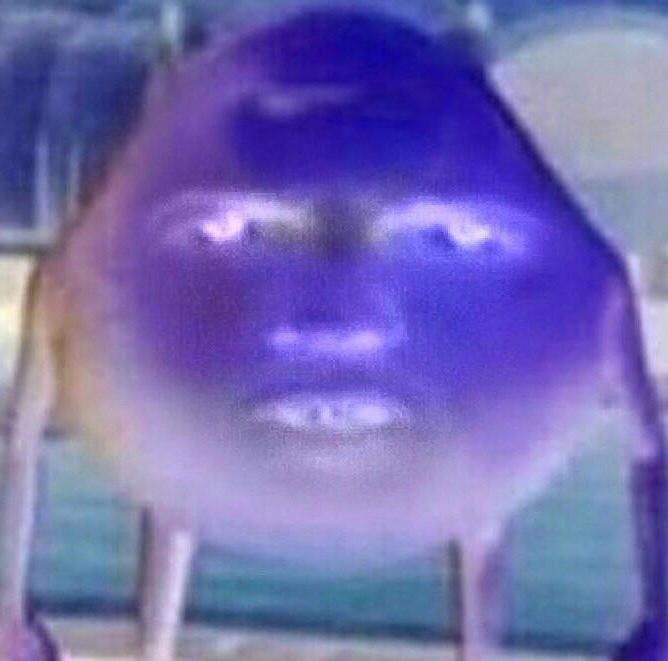
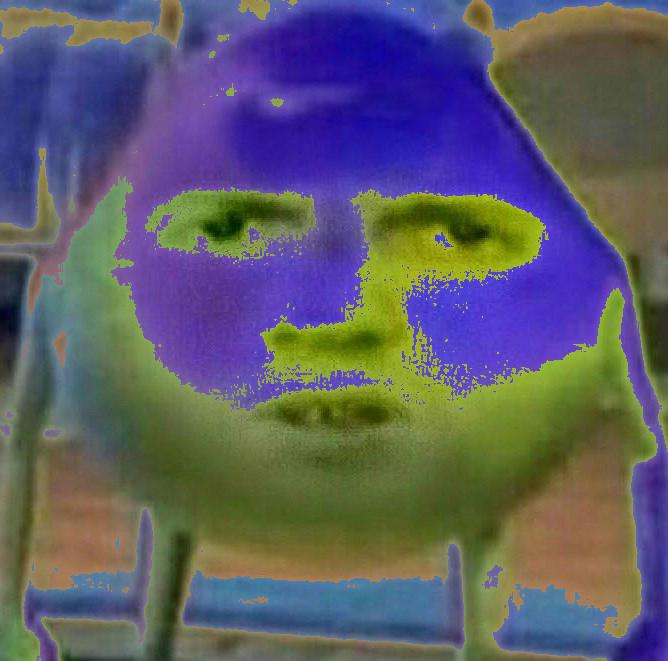
com #2. 1. main (описание библиотек) 2. добавлен файл NegativeWithThreshold.java негатив с порогами

diff --git a/src/NegativeImage.java b/src/NegativeImage.java
@@ -14,6 +14,9 @@ public class NegativeImage {
         int width = image.getWidth();
         int height = image.getHeight();
 
+        // Создание объектов для двух новых изображений
+        BufferedImage negativeImage = new BufferedImage(width, height, BufferedImage.TYPE_INT_RGB);
+
         // Проход по каждому пикселю изображения
         for(int y = 0; y < height; y++){
             for(int x = 0; x < width; x++){
@@ -31,33 +34,12 @@ public class NegativeImage {
                 int invertedPixel = (alpha << 24) | ((255 - red) << 16) | ((255 - green) << 8) | (255 - blue);
 
                 // Запись инвертированного значения пикселя в изображение для негатива
-                image.setRGB(x, y, invertedPixel);
-
-
-                // Пороговое значение
-                int threshold = 128;
-
-                // Вычисление инвертированного значения пикселя для негатива с порогом
-                int invertedPixelThreshold;
-                if ((red + green + blue) / 3 > threshold) {
-                    invertedPixelThreshold = invertedPixel;
-                } else {
-                    int invertedRed = 255 - red;
-                    int invertedGreen = 255 - green;
-                    int invertedBlue = 255 - blue;
-                    invertedPixelThreshold = (alpha << 24) | (invertedRed << 16) | (invertedGreen << 8) | invertedBlue;
-                }
-
-                // Запись инвертированного значения пикселя в изображение для негатива с порогом
-                image.setRGB(x, y, invertedPixelThreshold);
+                negativeImage.setRGB(x, y, invertedPixel);
             }
         }
 
         // Сохранение полученных изображений
         File outputNegative = new File("C:\\Users\\dayof\\IdeaProjects\\metodiObrabotki\\img\\negative_image.jpg");
-        ImageIO.write(image, "jpg", outputNegative);
-
-        File outputNegativeThreshold = new File("C:\\Users\\dayof\\IdeaProjects\\metodiObrabotki\\img\\negative_threshold_image.jpg");
-        ImageIO.write(image, "jpg", outputNegativeThreshold);
+        ImageIO.write(negativeImage, "jpg", outputNegative);
     }
 }

diff --git a/src/NegativeWithThreshold.java b/src/NegativeWithThreshold.java
@@ -1,0 +1,46 @@
+import java.awt.Color;
+import java.awt.image.BufferedImage;
+import java.io.File;
+import javax.imageio.ImageIO;
+
+public class NegativeWithThreshold {
+    public static void negativeWithThreshold() {
+        try {
+            // Загрузка исходного изображения
+            File input = new File("C:\\Users\\dayof\\IdeaProjects\\metodiObrabotki\\img\\img.jpg");
+            BufferedImage image = ImageIO.read(input);
+
+            // Определение порогового значения
+            int threshold = 128;
+
+            // Применяем негативное преобразование с порогом
+            for (int y = 0; y < image.getHeight(); y++) {
+                for (int x = 0; x < image.getWidth(); x++) {
+                    // Получаем значения цвета каждого пикселя
+                    Color color = new Color(image.getRGB(x, y));
+                    int red = color.getRed();
+                    int green = color.getGreen();
+                    int blue = color.getBlue();
+
+                    // Конвертируем в оттенки серого
+                    int gray = (red + green + blue) / 3;
+
+                    // Инвертируем цвета, если значение оттенка серого выше порога
+                    if (gray > threshold) {
+                        red = 255 - red;
+                        green = 255 - green;
+                        blue = 255 - blue;
+                        color = new Color(red, green, blue);
+                        image.setRGB(x, y, color.getRGB());
+                    }
+                }
+            }
+
+            // Сохраняем выходное изображение
+            File output = new File("C:\\Users\\dayof\\IdeaProjects\\metodiObrabotki\\img\\negative_threshold_image.jpg");
+            ImageIO.write(image, "jpg", output);
+        } catch (Exception e) {
+            System.out.println("Ошибка: " + e.getMessage());
+        }
+    }
+}

diff --git a/src/Main.java b/src/Main.java
@@ -1,5 +1,17 @@
 import java.io.IOException;
 
+/*
+java.awt.Color - библиотека для работы с цветами в Java.
+java.awt.Graphics - библиотека для рисования на различных поверхностях в Java.
+java.awt.image.BufferedImage - библиотека для работы с изображениями в Java.
+java.io.File - библиотека для работы с файлами в Java.
+javax.imageio.ImageIO - библиотека для чтения и записи изображений в Java.
+java.io.IOException - это исключение, которое может быть выброшено при работе с файлами в Java.
+
+Эти библиотеки являются стандартными библиотеками Java.
+Они входят в стандартный пакет java.
+*/
+
 public class Main {
     public static void main(String[] args) throws IOException {
 
@@ -48,5 +60,7 @@ public class Main {
         /*Соляризация изображения. Этот код реализует алгоритм соляризации изображения. Алгоритм проходит через каждый пиксель входного изображения, применяет к нему соляризацию и
         устанавливает новый цвет пикселя в выходном изображении.*/
         SolarizeImage.solarizeImage();
+
+        NegativeWithThreshold.negativeWithThreshold();
     }
 }
